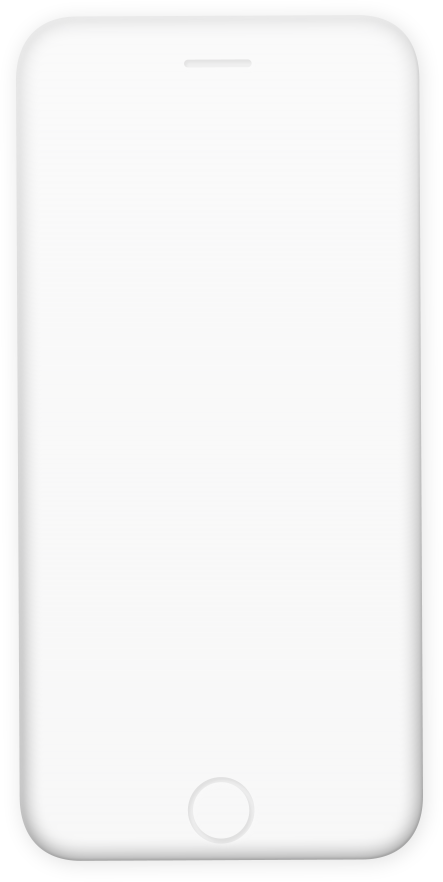
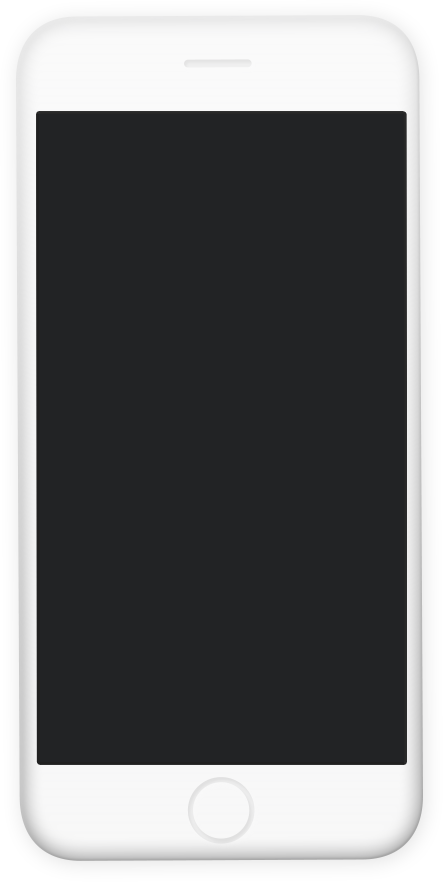
トップ修正
・全体のバランス
・アニメーション追加

diff --git a/app/styles/components/_page.scss b/app/styles/components/_page.scss
@@ -1,0 +1,82 @@
+// -----------------
+// HTML
+// -----------------
+html {
+  height: 100%;
+}
+
+// -----------------
+// BODY
+// -----------------
+body {
+  height: 100%;
+}
+
+h1 {
+  position: relative;
+  left: 32px;
+  width: 100%;
+  max-width: 380px;
+  margin: 32px auto 0;
+  text-align: center;
+
+  img {
+    width: 100%;
+  }
+}
+
+main {
+  min-height: calc(100% - 461px - 125px + -70px);
+  padding: 461px + 125px 0 70px;
+  @include background(linear-gradient(#fff, #dcdcdf));
+}
+
+figure {
+  position: absolute;
+  top: 125px;
+  left: 0;
+  right: 0;
+  max-width: 203.5px + 11px;
+  height: 422.5px + 11px;
+  margin: 0 auto;
+  background: url('../images/iphone.png') no-repeat;
+  background-size: 207.5px + 11px 422.5px + 11px;
+  background-position: center;
+  transform: rotate(-9deg);
+
+  img {
+    position: absolute;
+    top: 54px;
+    left: 16px;
+    width: 100%;
+    max-width: 183px;
+    opacity: 0;
+
+    &:nth-child(1) {
+      animation: image-fade-in-out $ease-in-out-cubic 20s infinite 0s;
+    }
+
+    &:nth-child(2) {
+      animation: image-fade-in-out $ease-in-out-cubic 20s infinite 10s;
+    }
+  }
+}
+
+.app-store {
+  display: block;
+  width: 100%;
+  max-width: 203px;
+  height: 71px;
+  margin: 0 auto;
+  background: url('../images/app-store-bg.png') no-repeat;
+  background-size: 203px 71px;
+  text-align: center;
+  line-height: 71px;
+
+  svg {
+    position: relative;
+    top: -8px;
+    width: 100%;
+    max-width: 143px;
+  }
+}

diff --git a/app/styles/components/_animate.scss b/app/styles/components/_animate.scss
@@ -1,0 +1,32 @@
+// http://tympanus.net/codrops/2012/01/02/fullscreen-background-image-slideshow-with-css3/
+@keyframes image-fade-in-out {
+  0% {
+    opacity: 0;
+    animation-timing-function: linear;
+    transform: translate(16px, 0);
+    z-index: 1;
+  }
+
+  8% {
+    opacity: 1;
+    animation-timing-function: linear;
+    transform: translate(0, 0);
+  }
+
+  17% {
+    opacity: 1;
+    transform: translate(0, 0);
+  }
+
+  83% {
+    opacity: 0;
+    transform: translate(-16px, 0);
+    z-index: -1;
+  }
+
+  100% {
+    opacity: 0;
+    transform: translate(-16px, 0);
+    z-index: -1;
+  }
+}

diff --git a/app/styles/main.scss b/app/styles/main.scss
@@ -10,6 +10,6 @@
 
 @import 'components/resets';
 @import 'components/icons';
-@import 'components/layout';
+@import 'components/page';
 
 @import 'modules/common';
